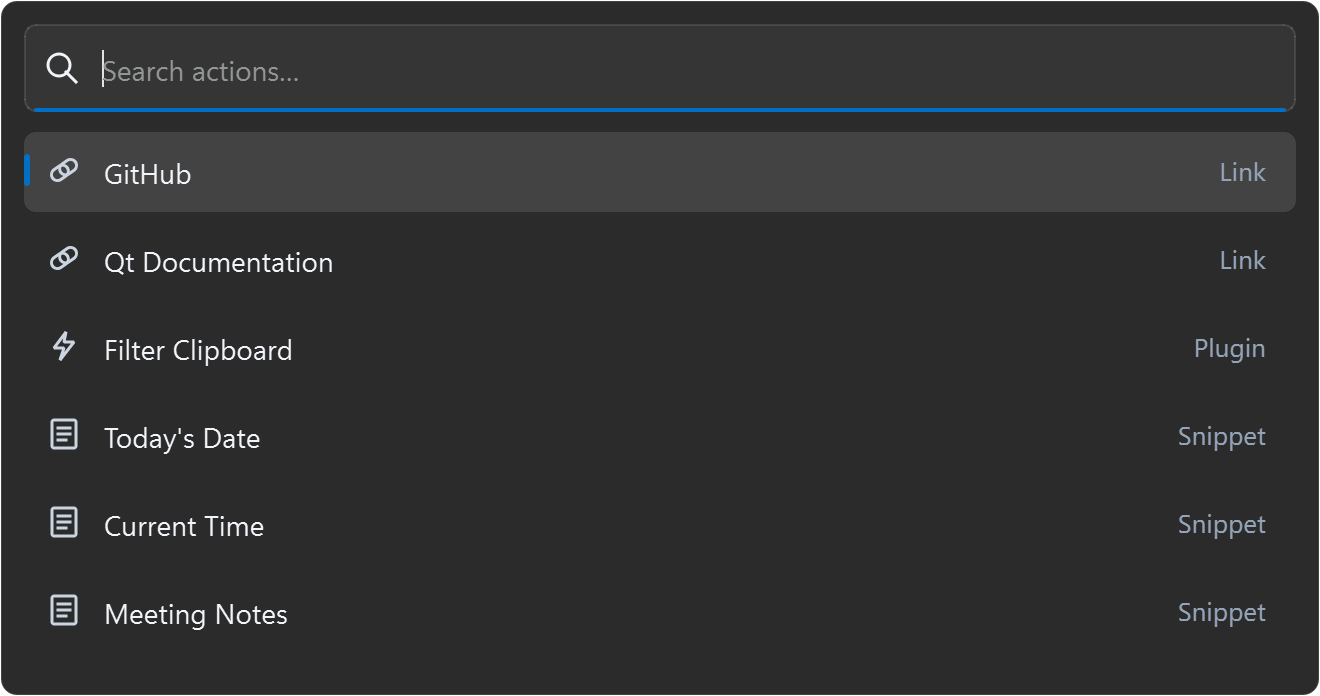
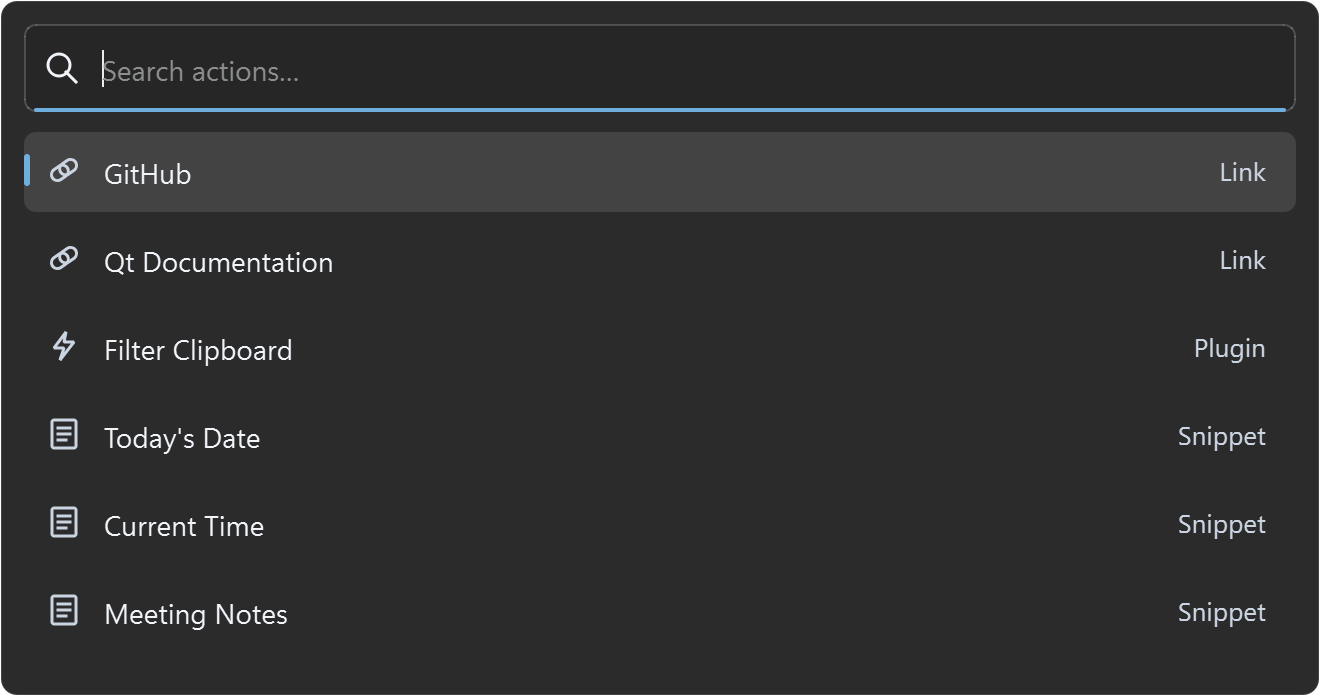
[fix/ui] preserve palette contrast over acrylic backgrounds

diff --git a/tests/test_mainwindow.cpp b/tests/test_mainwindow.cpp
@@ -1,8 +1,10 @@
 #include "app_paths.h"
 #include "atomic_file.h"
+#include "fluent_panel.h"
 #include "item.h"
 #include "mainwindow.h"
 #include "palette_geometry.h"
+#include "palette_theme.h"
 #include "recent_items_store.h"
 #include "search_result_view.h"
 #include "test_harness.h"
@@ -22,6 +24,7 @@
 #include <QListView>
 #include <QMenu>
 #include <QMetaObject>
+#include <QPainter>
 #include <QPropertyAnimation>
 #include <QScreen>
 #include <QSignalBlocker>
@@ -126,6 +129,84 @@ TEST(MainWindowTest, TrayMenuUsesLightDesktopAppearance) {
     ASSERT_TRUE(saved);
     ASSERT_TRUE(checkedSaved);
   }
+}
+
+TEST(MainWindowTest, PaletteContrastSurvivesExtremeBackdrops) {
+  for (bool dark : {false, true}) {
+    const auto colors = ColorsForPalette(dark);
+    ASSERT_TRUE(colors.nativeTint.alpha() > 0 &&
+                colors.nativeTint.alpha() < 255);
+    ASSERT_TRUE(CompositePaletteColor(colors.nativeTint, Qt::white) !=
+                CompositePaletteColor(colors.nativeTint, Qt::black));
+    for (const QColor backdrop :
+         {QColor(Qt::white), QColor(Qt::black), QColor(Qt::red),
+          QColor(Qt::green), QColor(Qt::blue)}) {
+      const QColor base = CompositePaletteColor(colors.nativeTint, backdrop);
+      for (const QColor surface :
+           {base, CompositePaletteColor(colors.selectedRow, base),
+            CompositePaletteColor(colors.hoveredRow, base),
+            CompositePaletteColor(colors.inputSurface, base)}) {
+        ASSERT_TRUE(PaletteContrast(colors.text, surface) >= 4.5);
+        ASSERT_TRUE(PaletteContrast(colors.secondary, surface) >= 4.5);
+        ASSERT_TRUE(PaletteContrast(colors.icon, surface) >= 3.0);
+      }
+      for (const QColor accent :
+           {QColor(Qt::black), QColor(Qt::white), QColor("#005FB8"),
+            QColor("#808080"), QColor(Qt::red), QColor(Qt::green)}) {
+        const auto marker = ReadablePaletteAccent(accent, dark);
+        ASSERT_TRUE(
+            PaletteContrast(marker, CompositePaletteColor(colors.selectedRow,
+                                                          base)) >= 3.0);
+        ASSERT_TRUE(
+            PaletteContrast(marker, CompositePaletteColor(colors.inputSurface,
+                                                          base)) >= 3.0);
+        ASSERT_TRUE(std::max(PaletteContrast(Qt::black, marker),
+                             PaletteContrast(Qt::white, marker)) >= 4.5);
+      }
+    }
+  }
+}
+
+TEST(MainWindowTest, OptionalContrastBackdropCapture) {
+#if QT_VERSION >= QT_VERSION_CHECK(6, 8, 0)
+  const QString directory = qEnvironmentVariable("SURFPANEL_UI_CAPTURE_DIR");
+  if (directory.isEmpty()) {
+    return;
+  }
+  QDir().mkpath(directory);
+  for (bool dark : {false, true}) {
+    QGuiApplication::styleHints()->setColorScheme(
+        dark ? Qt::ColorScheme::Dark : Qt::ColorScheme::Light);
+    ResetRecentCache();
+    MainWindow window(nullptr, false);
+    auto items = MakeRankedItems(3);
+    items[0].name = "GitHub";
+    items[1].name = "Filter Clipboard";
+    items[1].type = "plugin";
+    items[2].name = "Today's Date";
+    items[2].type = "snippet";
+    window.setItems(items);
+    auto *input = window.findChild<QLineEdit *>("searchInput");
+    input->setText("git");
+    ASSERT_EQ(ColorsForPalette(dark).secondary,
+              input->palette().color(QPalette::PlaceholderText));
+    auto *panel =
+        static_cast<FluentPanel *>(window.findChild<QWidget *>("panel"));
+    // Simulate the worst-case post-DWM backdrop without capturing the desktop.
+    panel->setThemeColors(ColorsForPalette(dark).nativeTint, Qt::transparent,
+                          dark);
+    for (bool white : {false, true}) {
+      QImage preview(window.size(), QImage::Format_ARGB32_Premultiplied);
+      preview.fill(white ? Qt::white : Qt::black);
+      QPainter painter(&preview);
+      window.render(&painter);
+      painter.end();
+      ASSERT_TRUE(preview.save(directory + (dark ? "/dark-on-" : "/light-on-") +
+                               (white ? "white.png" : "black.png")));
+    }
+  }
+  QGuiApplication::styleHints()->unsetColorScheme();
+#endif
 }
 
 TEST(MainWindowTest, CompactTrayCheckmarksRenderInBothThemes) {
@@ -466,6 +547,10 @@ TEST(MainWindowTest,
       QThread::msleep(5);
     }
     ASSERT_EQ(dark, window.property("darkMode").toBool());
+    ASSERT_EQ(ColorsForPalette(dark).secondary,
+              window.findChild<QLineEdit *>("searchInput")
+                  ->palette()
+                  .color(QPalette::PlaceholderText));
   };
   QGuiApplication::styleHints()->setColorScheme(Qt::ColorScheme::Dark);
   saveTheme("light");

diff --git a/src/mainwindow.cpp b/src/mainwindow.cpp
@@ -5,6 +5,7 @@
 #include "fluent_panel.h"
 #include "palette_geometry.h"
 #include "palette_search_input.h"
+#include "palette_theme.h"
 #include "plugin/builtin_plugins.h"
 #include "search_result_view.h"
 #include "tray_menu.h"
@@ -78,10 +79,9 @@ QString ToHexString(const QColor &color) {
 }
 
 QColor AccentForegroundColor(const QColor &accent) {
-  const double luminance = (0.2126 * accent.red() + 0.7152 * accent.green() +
-                            0.0722 * accent.blue()) /
-                           255.0;
-  return luminance > 0.6 ? QColor(10, 10, 10) : QColor(248, 250, 252);
+  return PaletteContrast(Qt::black, accent) > PaletteContrast(Qt::white, accent)
+             ? QColor(Qt::black)
+             : QColor(Qt::white);
 }
 
 std::optional<QString> FindStylesheetPath() {
@@ -346,11 +346,7 @@ void MainWindow::applyStylesheet() {
 
   const QColor accent =
       accentColor_.isValid() ? accentColor_ : QColor("#005FB8");
-  const QColor textColor = isDarkMode_ ? QColor("#F1F5F9") : QColor("#1F1F1F");
-  const QColor placeholderColor =
-      isDarkMode_ ? QColor("#94A3B8") : QColor("#6B6B6B");
-  const QColor inputBorder =
-      isDarkMode_ ? QColor(255, 255, 255, 28) : QColor(0, 0, 0, 12);
+  const auto colors = ColorsForPalette(isDarkMode_);
   const QColor selectionText = AccentForegroundColor(accent);
   QColor selectionBg = accent;
   selectionBg.setAlpha(255);
@@ -359,12 +355,10 @@ void MainWindow::applyStylesheet() {
       isDarkMode_ ? QColor(148, 163, 184, 120) : QColor(104, 104, 104, 96);
 
   QString themed = styleSource;
-  themed.replace("@text_color", ToHexString(textColor));
-  themed.replace("@placeholder_color", ToHexString(placeholderColor));
-  themed.replace("@input_border", ToRgbaString(inputBorder));
-  themed.replace("@input_surface",
-                 ToRgbaString(isDarkMode_ ? QColor(255, 255, 255, 12)
-                                          : QColor(255, 255, 255, 170)));
+  themed.replace("@text_color", ToHexString(colors.text));
+  themed.replace("@placeholder_color", ToHexString(colors.secondary));
+  themed.replace("@input_border", ToRgbaString(colors.inputBorder));
+  themed.replace("@input_surface", ToRgbaString(colors.inputSurface));
   themed.replace("@selection_bg", ToRgbaString(selectionBg));
   themed.replace("@selection_text", ToHexString(selectionText));
   themed.replace("@scrollbar_handle", ToRgbaString(scrollbarHandle));
@@ -374,7 +368,8 @@ void MainWindow::applyStylesheet() {
 
 void MainWindow::updateTheme() {
   const bool darkMode = ResolveDarkTheme(themeMode_, isSystemDarkMode());
-  const QColor accent = querySystemAccentColor();
+  const QColor accent =
+      ReadablePaletteAccent(querySystemAccentColor(), darkMode);
   const bool themeChanged =
       (darkMode != isDarkMode_) || (accent != accentColor_ && accent.isValid());
   const bool needsApply = themeChanged || styleSheet().isEmpty();
@@ -394,6 +389,9 @@ void MainWindow::updateTheme() {
     applyStylesheet();
     applyTrayMenuTheme();
     static_cast<PaletteSearchInput *>(input_)->setAccentColor(accentColor_);
+    const auto colors = ColorsForPalette(isDarkMode_);
+    static_cast<PaletteSearchInput *>(input_)->setThemeColors(colors.text,
+                                                              colors.secondary);
 
     if (resultsDelegate_ != nullptr) {
       resultsDelegate_->setTheme(isDarkMode_, accentColor_);
@@ -416,7 +414,8 @@ void MainWindow::updatePanelBackground() {
   }
   setProperty("nativeBackdrop", nativeBackdrop_);
   if (nativeBackdrop_) {
-    panel_->setThemeColors(Qt::transparent, Qt::transparent, isDarkMode_);
+    panel_->setThemeColors(ColorsForPalette(isDarkMode_).nativeTint,
+                           Qt::transparent, isDarkMode_);
   } else {
     QColor base = isDarkMode_ ? QColor("#202020") : QColor("#FAFAFA");
     base.setAlpha(nativeFrame_ ? 255 : (isDarkMode_ ? 242 : 240));

diff --git a/src/palette_theme.h b/src/palette_theme.h
@@ -1,0 +1,78 @@
+#pragma once
+
+#include <QColor>
+#include <algorithm>
+#include <cmath>
+
+struct PaletteColors {
+  QColor text;
+  QColor secondary;
+  QColor icon;
+  QColor nativeTint;
+  QColor inputSurface;
+  QColor inputBorder;
+  QColor selectedRow;
+  QColor hoveredRow;
+};
+
+inline PaletteColors ColorsForPalette(bool dark) {
+  if (dark) {
+    return {QColor("#F1F5F9"),         QColor("#CBD5E1"),
+            QColor("#CBD5E1"),         QColor(24, 24, 24, 208),
+            QColor(24, 24, 24, 80),    QColor(255, 255, 255, 45),
+            QColor(255, 255, 255, 28), QColor(255, 255, 255, 14)};
+  }
+  return {QColor("#1F1F1F"),          QColor("#525252"),
+          QColor("#616161"),          QColor(250, 250, 250, 220),
+          QColor(255, 255, 255, 170), QColor(0, 0, 0, 12),
+          QColor(0, 0, 0, 16),        QColor(0, 0, 0, 7)};
+}
+
+// Alpha compositing in the same sRGB channel space used by the widget surfaces.
+inline QColor CompositePaletteColor(const QColor &foreground,
+                                    const QColor &background) {
+  const qreal alpha = foreground.alphaF();
+  return QColor::fromRgbF(
+      foreground.redF() * alpha + background.redF() * (1 - alpha),
+      foreground.greenF() * alpha + background.greenF() * (1 - alpha),
+      foreground.blueF() * alpha + background.blueF() * (1 - alpha));
+}
+
+inline double PaletteLuminance(const QColor &color) {
+  const auto linear = [](double channel) {
+    return channel <= 0.04045 ? channel / 12.92
+                              : std::pow((channel + 0.055) / 1.055, 2.4);
+  };
+  return 0.2126 * linear(color.redF()) + 0.7152 * linear(color.greenF()) +
+         0.0722 * linear(color.blueF());
+}
+
+inline double PaletteContrast(const QColor &first, const QColor &second) {
+  const double a = PaletteLuminance(first);
+  const double b = PaletteLuminance(second);
+  return (std::max(a, b) + 0.05) / (std::min(a, b) + 0.05);
+}
+
+inline QColor ReadablePaletteAccent(QColor accent, bool dark) {
+  if (!accent.isValid()) {
+    accent = QColor("#005FB8");
+  }
+  accent.setAlpha(255);
+  const auto colors = ColorsForPalette(dark);
+  const QColor worstBase =
+      CompositePaletteColor(colors.nativeTint, dark ? Qt::white : Qt::black);
+  const QColor row = CompositePaletteColor(colors.selectedRow, worstBase);
+  const QColor input = CompositePaletteColor(colors.inputSurface, worstBase);
+  // Preserve the accent's hue, lightening/darkening only as much as required
+  // for a visible small focus/selection indicator on the worst-case backdrop.
+  for (int step = 0; step <= 100; ++step) {
+    QColor target = dark ? QColor(Qt::white) : QColor(Qt::black);
+    target.setAlphaF(step / 100.0);
+    const QColor candidate = CompositePaletteColor(target, accent);
+    if (PaletteContrast(candidate, row) >= 3.0 &&
+        PaletteContrast(candidate, input) >= 3.0) {
+      return candidate;
+    }
+  }
+  return dark ? QColor(Qt::white) : QColor(Qt::black);
+}

diff --git a/src/search_result_view.cpp b/src/search_result_view.cpp
@@ -1,4 +1,5 @@
 #include "search_result_view.h"
+#include "palette_theme.h"
 
 #include <QFont>
 #include <QPainter>
@@ -110,10 +111,9 @@ void SearchResultItemDelegate::paint(QPainter *painter,
   const QRect rowRect = option.rect.adjusted(0, 2, 0, -2);
   const bool selected = (option.state & QStyle::State_Selected) != 0;
   const bool hovered = (option.state & QStyle::State_MouseOver) != 0;
+  const auto colors = ColorsForPalette(darkMode_);
   if (selected || hovered) {
-    const QColor rowBg =
-        selected ? (darkMode_ ? QColor(255, 255, 255, 28) : QColor(0, 0, 0, 16))
-                 : (darkMode_ ? QColor(255, 255, 255, 14) : QColor(0, 0, 0, 7));
+    const QColor rowBg = selected ? colors.selectedRow : colors.hoveredRow;
     painter->setPen(Qt::NoPen);
     painter->setBrush(rowBg);
     painter->drawRoundedRect(rowRect, 6, 6);
@@ -146,19 +146,19 @@ void SearchResultItemDelegate::paint(QPainter *painter,
                        typeWidth, rowRect.height());
   const QRect nameRect = rowRect.adjusted(40, 0, -typeWidth - 32, 0);
 
-  painter->setPen(QPen(darkMode_ ? QColor("#CBD5E1") : QColor("#616161"), 1.5));
+  painter->setPen(QPen(colors.icon, 1.5));
   PaintTypeIcon(painter,
                 QRectF(rowRect.left() + 12, rowRect.center().y() - 8, 16, 16),
                 typeRaw.toLower());
 
   painter->setFont(nameFont);
-  painter->setPen(darkMode_ ? QColor("#F1F5F9") : QColor("#1F1F1F"));
+  painter->setPen(colors.text);
   painter->drawText(
       nameRect, Qt::AlignVCenter | Qt::AlignLeft,
       nameMetrics.elidedText(name, Qt::ElideRight, nameRect.width()));
 
   painter->setFont(typeFont);
-  painter->setPen(darkMode_ ? QColor(148, 163, 184) : QColor(104, 104, 104));
+  painter->setPen(colors.secondary);
   painter->drawText(typeRect, Qt::AlignVCenter | Qt::AlignRight, typeText);
   painter->restore();
 }

diff --git a/src/palette_search_input.cpp b/src/palette_search_input.cpp
@@ -13,6 +13,17 @@ void PaletteSearchInput::setAccentColor(const QColor &color) {
   accentColor_ = color;
   update();
 }
+void PaletteSearchInput::setThemeColors(const QColor &text,
+                                        const QColor &placeholder) {
+  QPalette colors = palette();
+  colors.setColor(QPalette::Text, text);
+  colors.setColor(QPalette::WindowText, text);
+  colors.setColor(QPalette::ButtonText, text);
+  colors.setColor(QPalette::PlaceholderText, placeholder);
+  if (colors != palette()) {
+    setPalette(colors);
+  }
+}
 void PaletteSearchInput::paintEvent(QPaintEvent *event) {
   QLineEdit::paintEvent(event);
   QPainter painter(this);

diff --git a/src/palette_search_input.h b/src/palette_search_input.h
@@ -5,6 +5,7 @@ class PaletteSearchInput final : public QLineEdit {
 public:
   explicit PaletteSearchInput(QWidget *parent = nullptr);
   void setAccentColor(const QColor &color);
+  void setThemeColors(const QColor &text, const QColor &placeholder);
 
 protected:
   void paintEvent(QPaintEvent *event) override;

diff --git a/docs/development_zh.md b/docs/development_zh.md
@@ -36,6 +36,10 @@ Windows 11 22H2 及以上使用系统 Desktop Acrylic 背景、小圆角及 DWM 
 旧版 Windows 或原生效果不可用时使用单一半透明填充和细边框，不采样壁纸，
 不使用 Qt drop-shadow。
 
+Acrylic 上叠加半透明主题色，限制背景亮度，同时保留桌面模糊和透色效果。
+深色主题叠在白色内容上、浅色主题叠在黑色内容上时，主文字、辅助文字和图标仍可辨认。
+必要时仅小幅提亮或压暗焦点强调色，文字选中态选择对比度更高的黑色或白色前景。
+
 窗口默认宽 660 个逻辑像素，打开在鼠标所在屏幕，水平居中，顶边约位于可用高度的 35%。
 高度随结果数量调整，最多显示六行 44 px 结果，其余通过滚动查看。
 没有结果时显示不可执行的提示行；图标与 `Link`、`Snippet`、`Plugin` 标签区分功能类型。
@@ -49,6 +53,9 @@ UI 验证可设置 `SURFPANEL_UI_CAPTURE_DIR` 为构建产物目录，再通过 
 `test_mainwindow`，导出深浅主题的原生与 fallback 预览；常规测试不会截图。
 
 同时导出 `readme-light.png`、`readme-dark.png` 和 `tray.png`。
+`dark-on-white.png`、`dark-on-black.png`、`light-on-white.png` 和
+`light-on-black.png` 为极端背景模拟预览，不依赖桌面截图，也不包含原生模糊效果。
+常规测试同时检查白色、黑色和高饱和背景下的对比度。
 托盘菜单使用 Windows 系统菜单字体（其他平台使用系统字体）和紧凑间距。
 勾选标记独立于 Qt 样式绘制，确保不同 DPI 和主题下大小、对比度一致。
 `tray-checked.png`、`tray-light-checked.png` 和 `tray-dark-checked.png`

diff --git a/docs/development.md b/docs/development.md
@@ -39,6 +39,12 @@ backdrop, small rounded corners, and DWM framing/shadow. Older Windows versions
 and unavailable native effects use a simple translucent panel and thin border.
 No wallpaper sampling or Qt drop-shadow effect is used.
 
+A translucent theme-colored layer over Acrylic bounds the background brightness
+while retaining desktop blur and color blending. Primary/secondary text and icons
+remain readable even with dark appearance over white content or light appearance
+over black content. Focus accents are minimally lightened/darkened when needed,
+and selected text uses the higher-contrast black/white foreground.
+
 The palette is 660 logical pixels wide and opens on the screen containing the
 cursor, horizontally centered with its top edge around 35% of the available
 screen height. Height follows the results, displaying up to six 44-pixel rows
@@ -56,6 +62,10 @@ and run `test_mainwindow` through CTest. It exports light/dark native and fallba
 previews; normal test runs do not capture the desktop.
 
 The same opt-in exports `readme-light.png`, `readme-dark.png`, and `tray.png`.
+`dark-on-white.png`, `dark-on-black.png`, `light-on-white.png`, and
+`light-on-black.png` are simulated extreme-backdrop contrast previews, rendered
+without desktop capture or native blur. Normal tests also check contrast on
+white, black, and saturated backgrounds.
 The tray uses the Windows system menu font (or the platform system font) and
 compact spacing. Checkmarks are painted independently of the Qt style so their
 size and contrast remain consistent across DPI and themes. Checked-state previews
